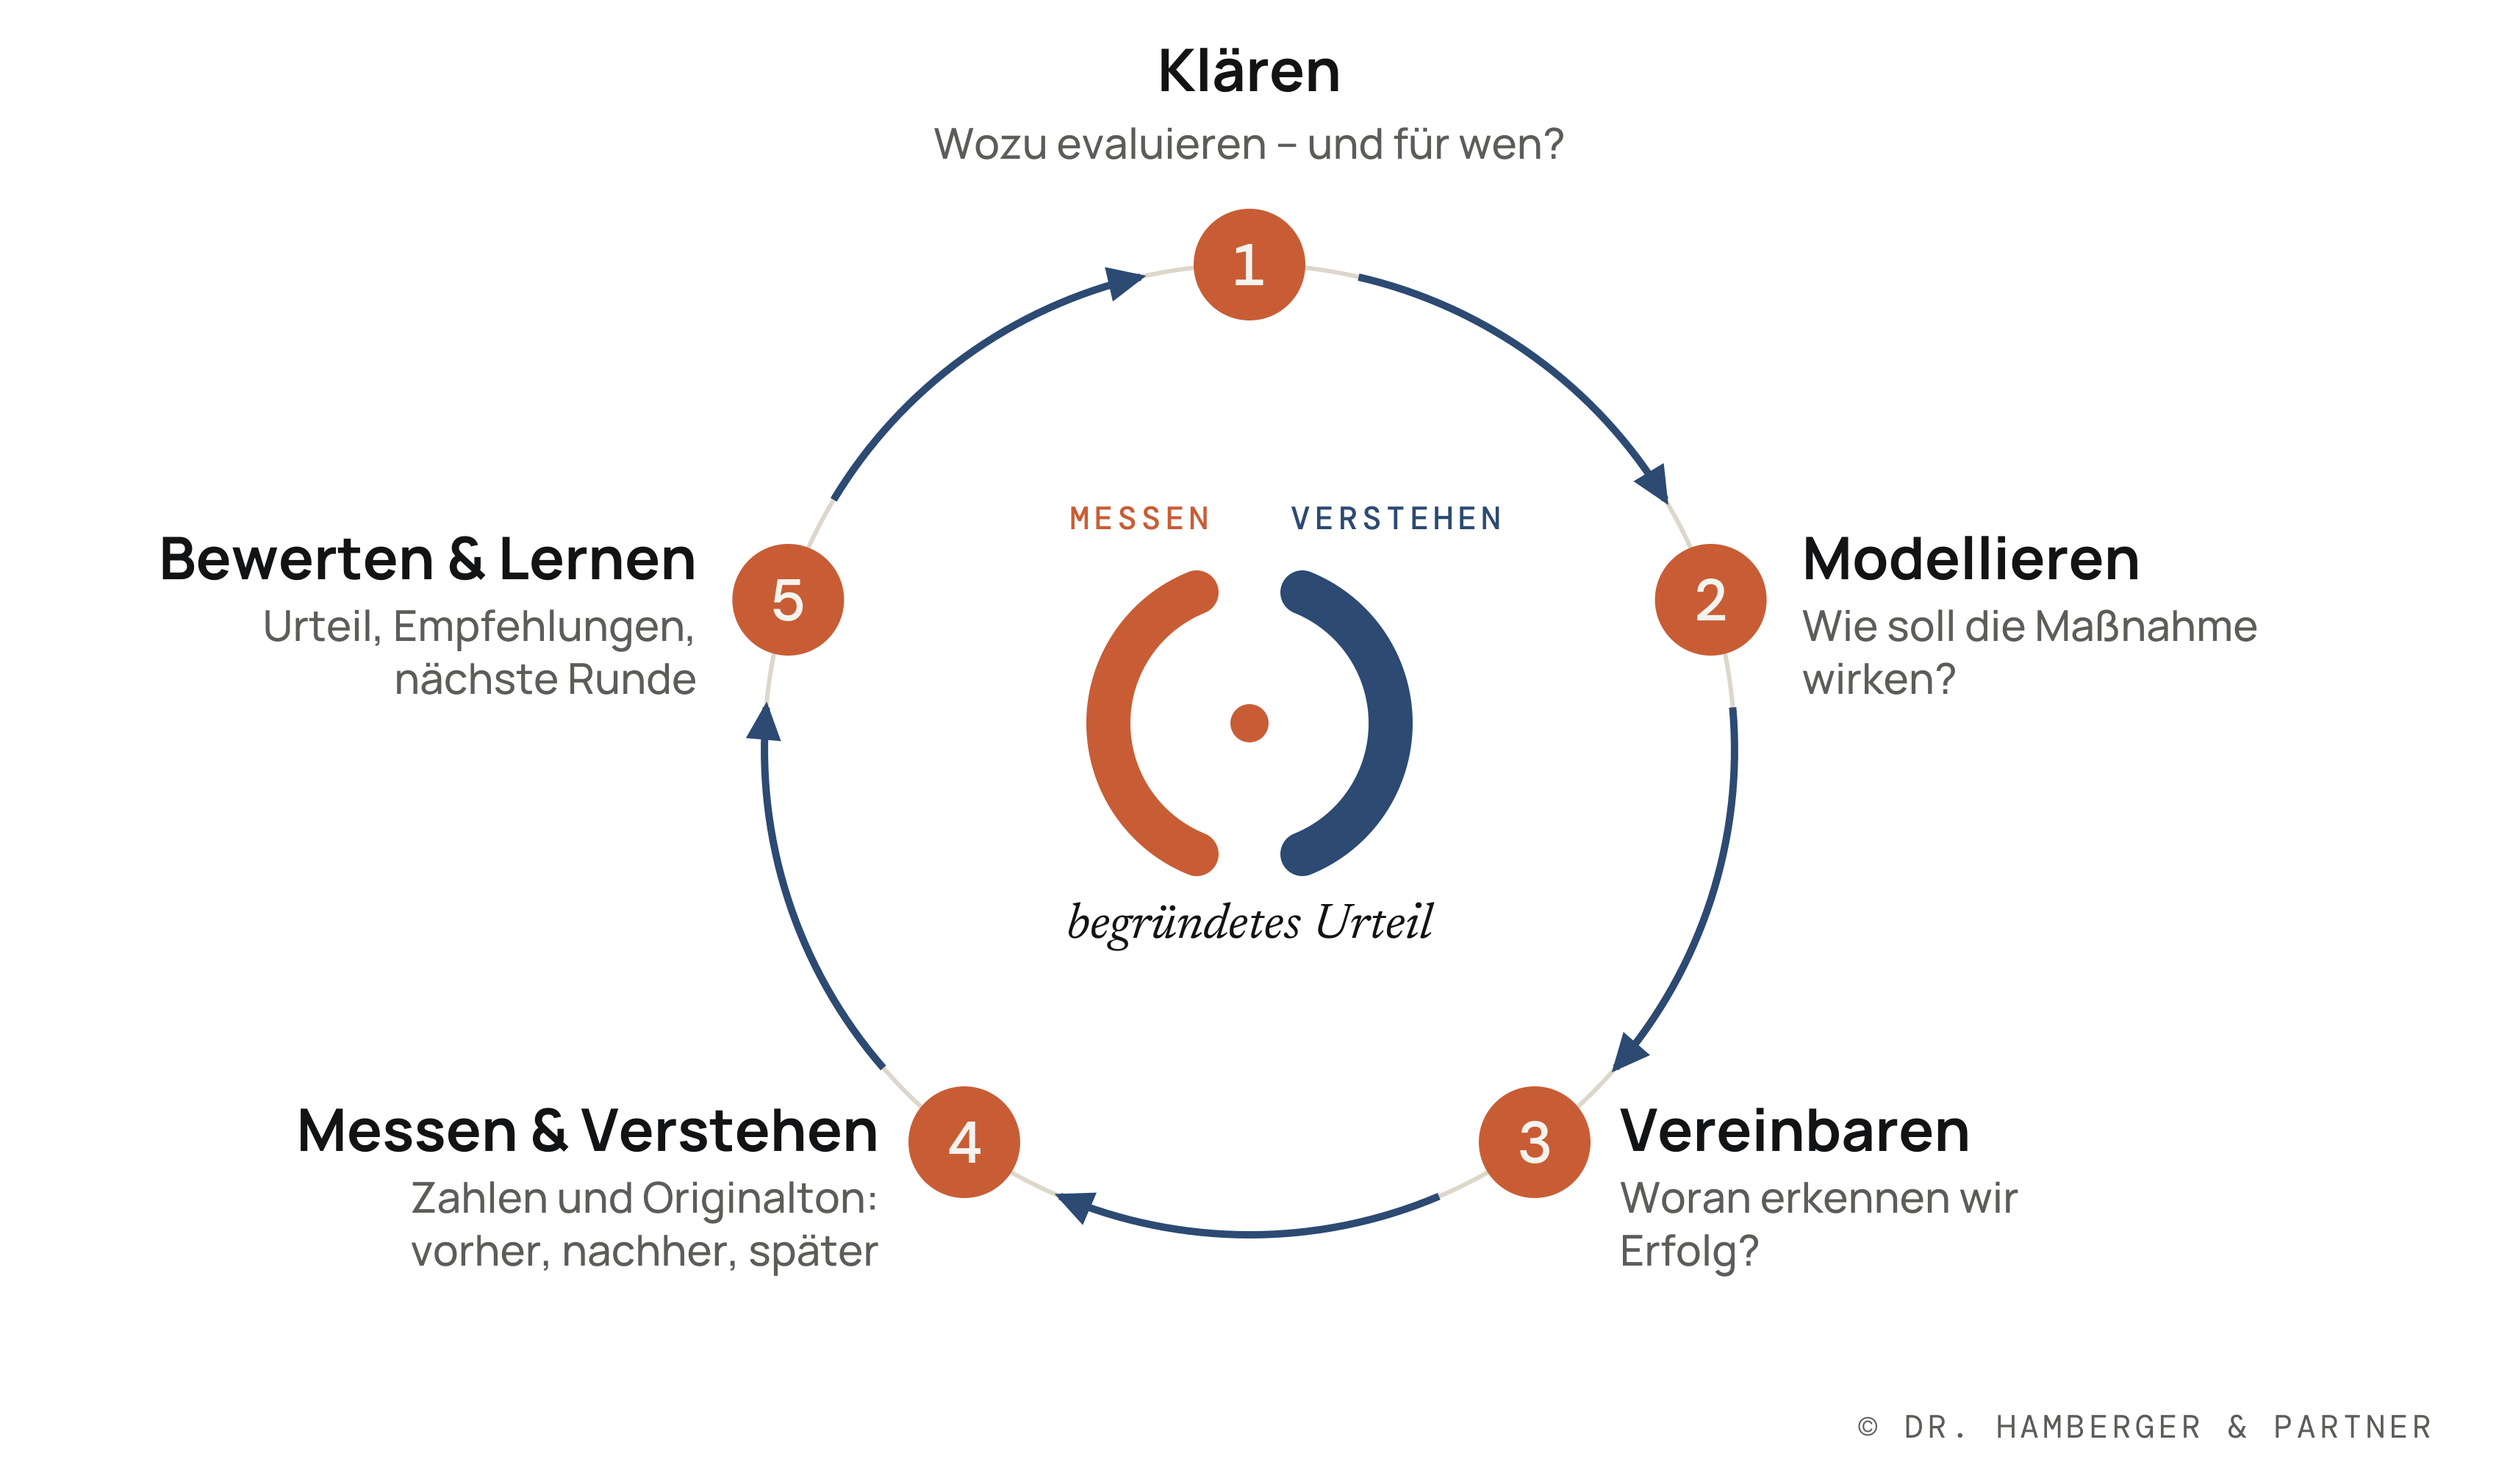
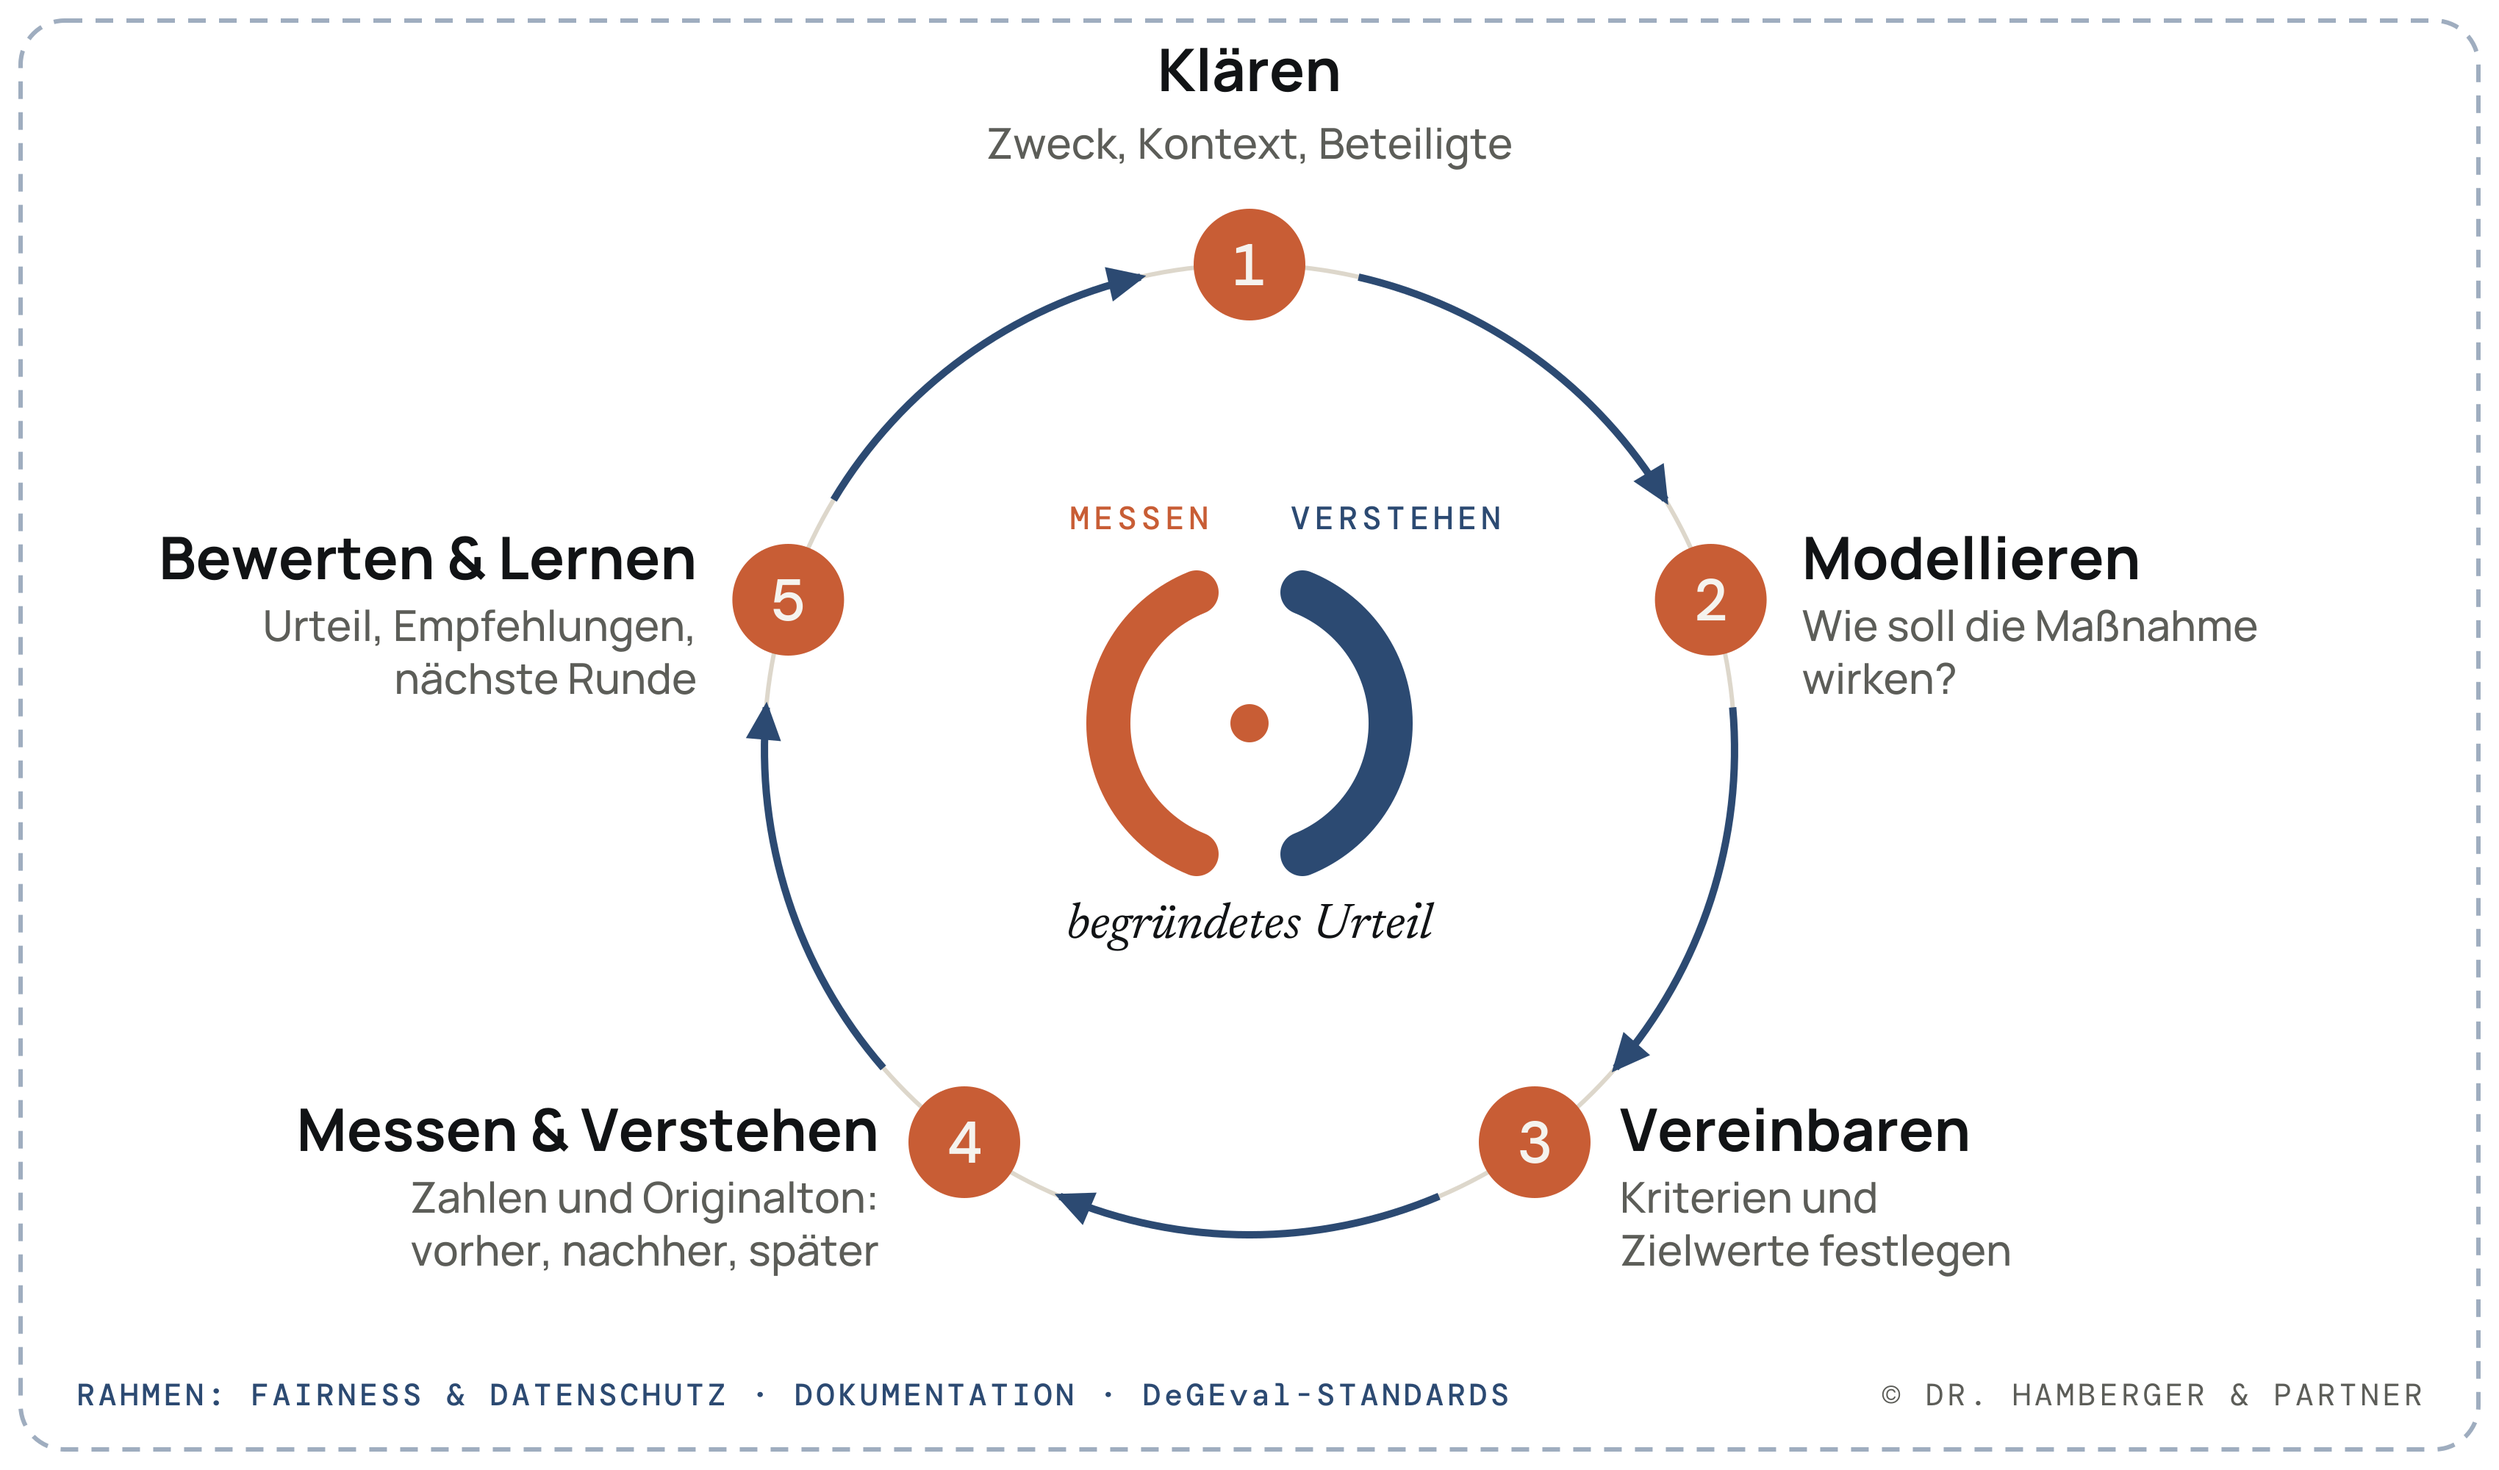
Evaluationsseite: EVALOG an DeGEval-Standards angebunden (Kontext, Zielwerte, Rahmen Fairness/Datenschutz/Dokumentation)
Claude-Session: https://claude.ai/code/session_01Jp7wqXKNAButTP8aQRZF53

diff --git a/evaluation/index.html b/evaluation/index.html
@@ -605,12 +605,12 @@ h1,h2,h3{font-weight:700}
         <ul class="ev-legend">
           <li><i class="m"></i><span><strong>Messen:</strong> standardisierte Befragung, validierte Skalen, Vergleich vorher, nachher und später.</span></li>
           <li><i class="v"></i><span><strong>Verstehen:</strong> der Originalton der Beteiligten – aus KI-gestützten Sprachdialogen, Interviews und Repertory Grid.</span></li>
-          <li><i class="u"></i><span><strong>Bewerten:</strong> ein begründetes Urteil an den vereinbarten Kriterien, mit Empfehlungen für die nächste Runde.</span></li>
+          <li><i class="u"></i><span><strong>Bewerten:</strong> ein begründetes Urteil an den vereinbarten Kriterien und Zielwerten, mit Empfehlungen für die nächste Runde.</span></li>
         </ul>
       </div>
     </div>
     <figure class="ev-model">
-      <img src="evalog-modell.png" alt="Das EVALOG-Modell: ein Kreislauf aus fünf Schritten – Klären, Modellieren, Vereinbaren, Messen und Verstehen, Bewerten und Lernen – um das Zeichen für Messen, Verstehen und begründetes Urteil." width="3400" height="2000" loading="lazy" />
+      <img src="evalog-modell.png" alt="Das EVALOG-Modell: ein Kreislauf aus fünf Schritten – Klären, Modellieren, Vereinbaren, Messen und Verstehen, Bewerten und Lernen – um das Zeichen für Messen, Verstehen und begründetes Urteil, eingefasst vom Rahmen Fairness und Datenschutz, Dokumentation und DeGEval-Standards." width="3400" height="2000" loading="lazy" />
       <figcaption>Das EVALOG-Modell</figcaption>
     </figure>
   </section>
@@ -619,11 +619,11 @@ h1,h2,h3{font-weight:700}
     <p class="section-kicker">Vorgehen</p>
     <h2>In fünf Schritten zum <em>begründeten Urteil.</em></h2>
     <div class="rg-steps ev-steps">
-      <div class="rg-step"><span>01</span><h3>Klären</h3><p>Wozu wird evaluiert – und für wen? Wir klären Anlass, Fragen, Zuständigkeiten und den sinnvollen Umfang.</p></div>
+      <div class="rg-step"><span>01</span><h3>Klären</h3><p>Wozu wird evaluiert – und für wen? Wir klären Zweck, Kontext und Beteiligte und halten Auftrag und Umfang schriftlich fest.</p></div>
       <div class="rg-step"><span>02</span><h3>Modellieren</h3><p>Wie soll die Maßnahme wirken? Wir machen die Wirkungslogik sichtbar: vom Angebot über die Nutzung bis zur Wirkung.</p></div>
-      <div class="rg-step"><span>03</span><h3>Vereinbaren</h3><p>Woran erkennen wir Erfolg? Die Kriterien legen wir vorher fest – gemeinsam mit den Beteiligten, etwa Relevanz, Wirksamkeit, Effizienz und Nachhaltigkeit.</p></div>
+      <div class="rg-step"><span>03</span><h3>Vereinbaren</h3><p>Woran erkennen wir Erfolg – und ab wann gilt er als erreicht? Kriterien und Zielwerte legen wir vorher fest, gemeinsam mit den Beteiligten und mit offengelegter Begründung.</p></div>
       <div class="rg-step"><span>04</span><h3>Messen &amp; Verstehen</h3><p>Zahlen und Originalton, vorher, nachher und einige Monate später – damit sich zeigt, was bleibt.</p></div>
-      <div class="rg-step"><span>05</span><h3>Bewerten &amp; Lernen</h3><p>Ein nachvollziehbares Urteil mit Empfehlungen. Die Ergebnisse fließen in die nächste Planung ein.</p></div>
+      <div class="rg-step"><span>05</span><h3>Bewerten &amp; Lernen</h3><p>Ein nachvollziehbares Urteil mit Empfehlungen und offen benannten Grenzen der Aussagekraft. Die Ergebnisse gehen an die Beteiligten zurück und fließen in die nächste Planung ein.</p></div>
     </div>
   </section>
 
@@ -631,14 +631,14 @@ h1,h2,h3{font-weight:700}
     <div class="rg-two">
       <div><p class="section-kicker">Grundlage</p><h2>Fachlich <em>fundiert.</em></h2></div>
       <div class="rg-text">
-        <p>Grundlage unserer Arbeit sind die Standards für Evaluation der DeGEval – Gesellschaft für Evaluation. Sie beschreiben, was eine gute Evaluation ausmacht.</p>
+        <p>Grundlage unserer Arbeit sind die Standards für Evaluation der DeGEval – Gesellschaft für Evaluation. Sie beschreiben, was eine gute Evaluation ausmacht. Im EVALOG-Modell bilden sie den Rahmen um jeden Schritt: Fairness, Datenschutz und eine nachvollziehbare Dokumentation.</p>
       </div>
     </div>
     <div class="ev-standards">
       <div><h3>Nützlichkeit</h3><p>Die Evaluation beantwortet die Fragen, die für Ihre Entscheidungen zählen.</p></div>
       <div><h3>Durchführbarkeit</h3><p>Vorgehen und Aufwand passen zu Ihren Abläufen und Ressourcen.</p></div>
-      <div><h3>Fairness</h3><p>Die Perspektiven aller Beteiligten werden respektvoll und ausgewogen berücksichtigt.</p></div>
-      <div><h3>Genauigkeit</h3><p>Methoden und Befunde sind nachvollziehbar und belastbar.</p></div>
+      <div><h3>Fairness</h3><p>Die Perspektiven aller Beteiligten werden ausgewogen berücksichtigt, ihre Rechte und Daten geschützt.</p></div>
+      <div><h3>Genauigkeit</h3><p>Methoden, Bewertungen und Schlussfolgerungen sind dokumentiert, nachvollziehbar und belastbar.</p></div>
     </div>
   </section>
 
